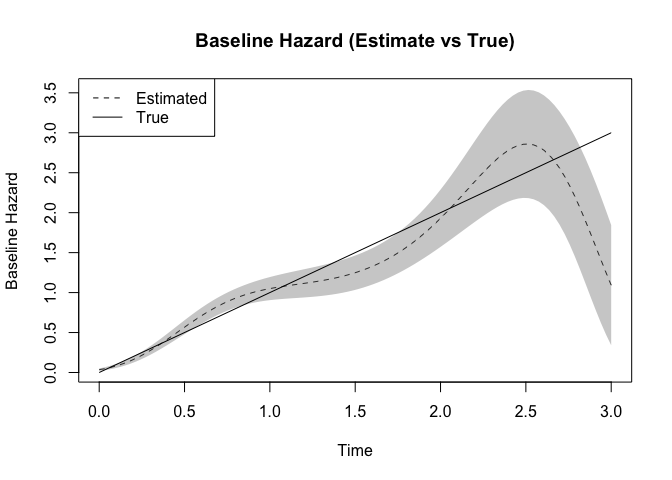
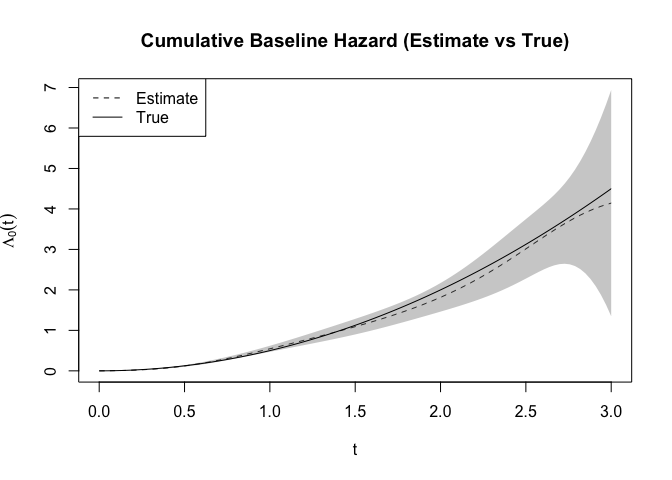
:sparkles: add monitor of parametric space

diff --git a/README.md b/README.md
@@ -35,7 +35,7 @@ library(coxstream)
 formula <- survival::Surv(time, status) ~ X1 + X2 + X3 + X4 + X5
 fit <- coxstream(
   formula, sim[sim$batch_id == 1, ],
-  degree = 4, boundary = c(0, 3), idx_col = "patient_id"
+  degree = 3, boundary = c(0, 3), idx_col = "patient_id"
 )
 for (batch in 2:10) {
   fit <- update(fit, sim[sim$batch_id == batch, ])
@@ -43,45 +43,46 @@ for (batch in 2:10) {
 summary(fit)
 #> Call:
 #> coxstream(formula = formula, data = sim[sim$batch_id == 1, ], 
-#>     degree = 4, boundary = c(0, 3), idx_col = "patient_id")
+#>     degree = 3, boundary = c(0, 3), idx_col = "patient_id")
 #> 
 #>       coef exp(coef)      se     z      p    
-#> X1 0.96860   2.63426 0.05107 18.97 <2e-16 ***
-#> X2 0.99686   2.70976 0.05355 18.61 <2e-16 ***
-#> X3 0.99161   2.69557 0.05368 18.47 <2e-16 ***
-#> X4 0.88254   2.41704 0.05205 16.96 <2e-16 ***
-#> X5 1.01817   2.76811 0.05092 19.99 <2e-16 ***
+#> X1 0.96583   2.62696 0.05042 19.16 <2e-16 ***
+#> X2 0.99377   2.70140 0.05315 18.70 <2e-16 ***
+#> X3 0.99015   2.69163 0.05395 18.35 <2e-16 ***
+#> X4 0.88581   2.42494 0.05206 17.02 <2e-16 ***
+#> X5 1.01700   2.76489 0.05037 20.19 <2e-16 ***
 #> ---
 #> Signif. codes:  0 '***' 0.001 '**' 0.01 '*' 0.05 '.' 0.1 ' ' 1
 #>    exp(coef) exp(-coef) lower .95 upper .95
-#> X1 2.6343    0.3796     2.3833    2.9116   
-#> X2 2.7098    0.3690     2.4398    3.0096   
-#> X3 2.6956    0.3710     2.4264    2.9946   
-#> X4 2.4170    0.4137     2.1826    2.6766   
-#> X5 2.7681    0.3613     2.5052    3.0587
+#> X1 2.6270    0.3807     2.3798    2.8998   
+#> X2 2.7014    0.3702     2.4341    2.9980   
+#> X3 2.6916    0.3715     2.4215    2.9918   
+#> X4 2.4249    0.4124     2.1897    2.6854   
+#> X5 2.7649    0.3617     2.5050    3.0518
 ```
 
 Besides the estimated coefficients, we can also obtain the estimated
 baseline hazard function. The following code plots the estimated
-baseline hazard function and the true baseline hazard function.
+cumulative baseline hazard function and the true cumulative baseline
+hazard function.
 
 ``` r
 time <- seq(0, 3, length.out = 100)
 basehaz_pred <- basehaz(fit, time)
-basehaz_true <- cbind(time, time)
+basehaz_true <- cbind(time, 0.5 * time^2)
 plot(
   time, basehaz_pred[, 2],
   type = "l", lty = 2,
   ylim = range(basehaz_pred[, 4], basehaz_pred[, 5]),
-  xlab = "Time", ylab = "Baseline Hazard",
-  main = "Baseline Hazard (Estimate vs True)"
+  xlab = expression(t), ylab = expression(Lambda[0](t)),
+  main = "Cumulative Baseline Hazard (Estimate vs True)"
 )
 polygon(
   c(time, rev(time)), c(basehaz_pred[, 4], rev(basehaz_pred[, 5])),
   col = rgb(0.5, 0.5, 0.5, 0.4), border = NA
 )
 lines(basehaz_true[, 1], basehaz_true[, 2])
-legend("topleft", legend = c("Estimated", "True"), lty = c(2, 1))
+legend("topleft", legend = c("Estimate", "True"), lty = c(2, 1))
 ```
 
-<img src="man/figures/README-evaluation-1.png" alt="Baseline Hazard (Estimate vs True)" width="100%" />
+<img src="man/figures/README-evaluation-1.png" alt="Cumulative Baseline Hazard (Estimate vs True)" width="100%" />
